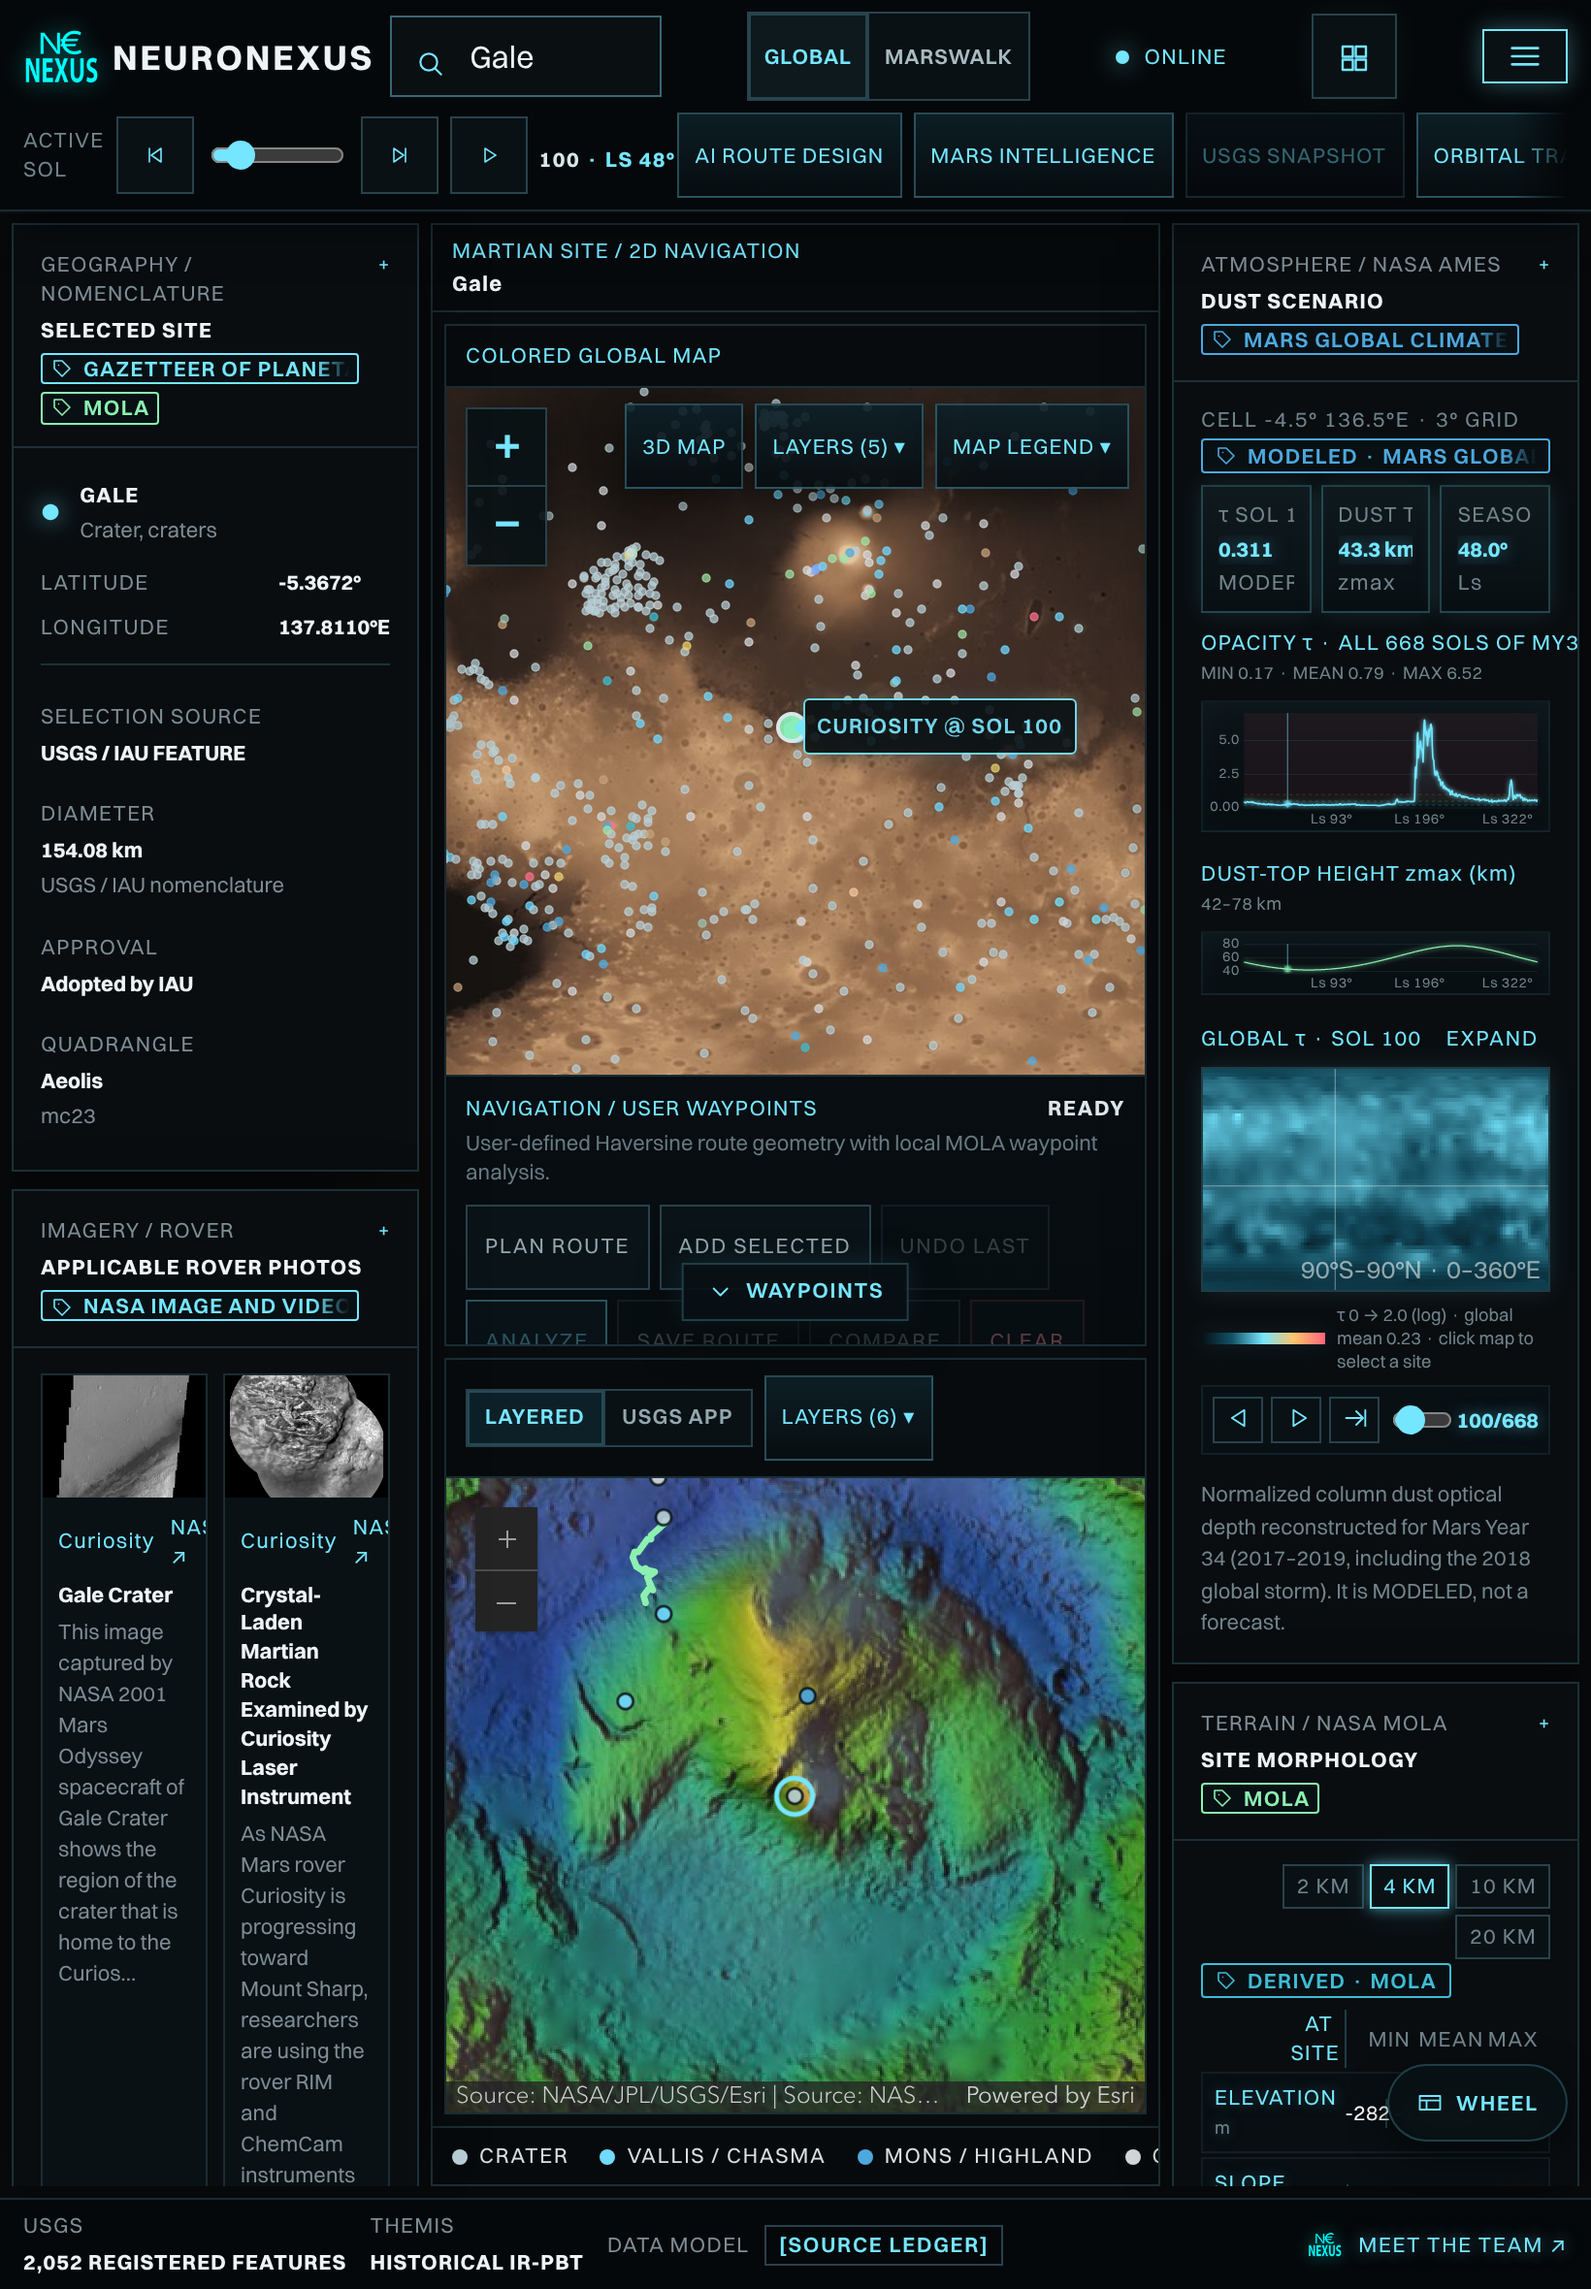
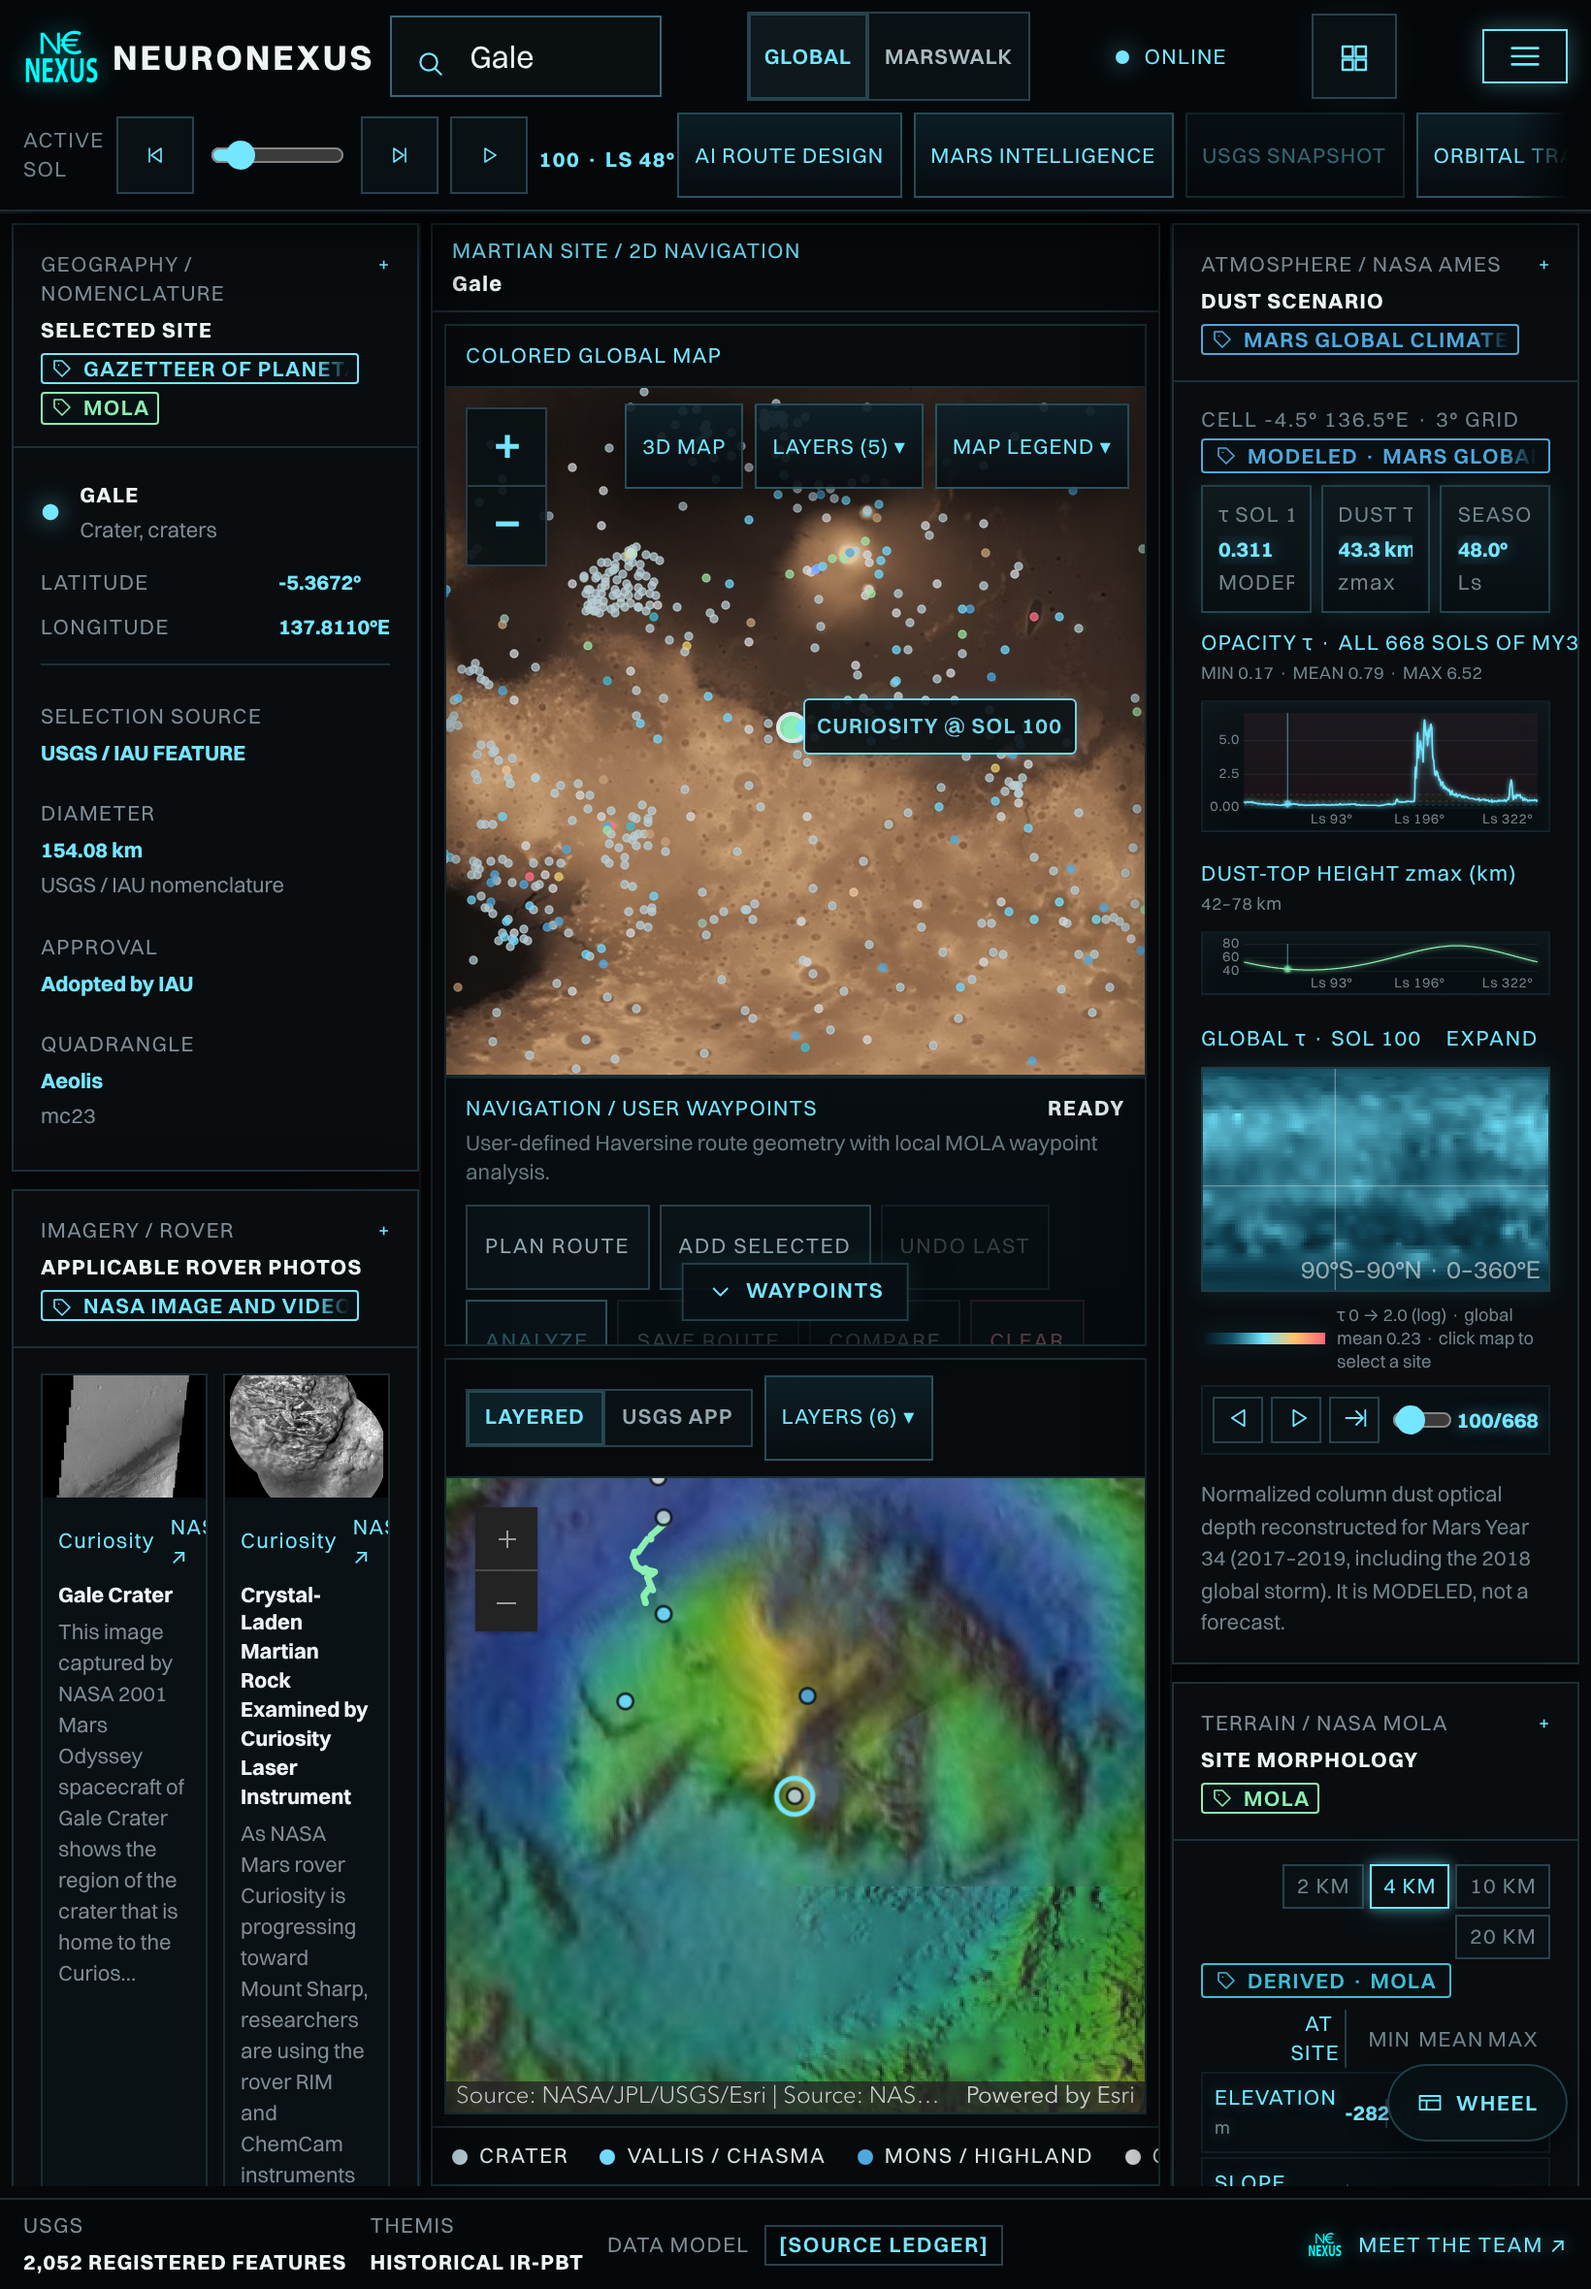
Honest worker/memory telemetry, remove Install app, cyan key figures, panel depth
- Browser Optimization: DEVICE MEMORY row only when navigator.deviceMemory is
  exposed (labelled as the browser's rounded value); WORKER shows READY with the
  last job time when worker math is on, STANDBY (main thread) when off
- Install as app removed from the menu, wheel and Command Index, with its
  manifest, service worker and offline page; browsers that registered the old
  worker unregister it on load
- Key figures in electric cyan, bold Switzer: Metric values (selected site,
  THEMIS evidence, solar geometry), sol conditions, thermal bars, morphology
  stats, mission KPIs, MARSWALK decision/conditions/validation rows and stops,
  route counters, the top-bar sol; n/a stays dim, status colors unchanged
- Desktop/tablet ambient shadows on the four cockpit boundaries (top bar keeps
  z-index 3000 so the search list stays above the maps)

Claude-Session: https://claude.ai/code/session_01WGYgWxKKb8sWn1uuapz3HA

diff --git a/frontend/src/components/MissionManualDrawer.jsx b/frontend/src/components/MissionManualDrawer.jsx
@@ -2,7 +2,6 @@
 
 import { useEffect, useState } from "react";
 
-import { installStore, useInstall } from "../pwa/installStore";
 import { useSourceLedger } from "../sources/useSourceLedger";
 import SourceTag from "../sources/SourceTag";
 import { GUIDES, QUICK_STARTS } from "./manualContent";
@@ -11,8 +10,6 @@ import "../sources/sources.css";
 export default function MissionManualDrawer({ open, onClose, onQuickStart, onOpenSources, onOpenCommands, optimizationPanel }) {
   const ledger = useSourceLedger();
   const [status, setStatus] = useState({ state: "idle" });
-  const install = useInstall();
-  const [installMsg, setInstallMsg] = useState("");
 
   useEffect(() => {
     if (!open) return undefined;
@@ -51,23 +48,6 @@ export default function MissionManualDrawer({ open, onClose, onQuickStart, onOpe
         <section className="nn-manual-section">
           <h3>QUICK START</h3>
           <div className="nn-manual-quick">
-            <button
-              type="button"
-              className="nn-manual-install"
-              data-quickstart="install-app"
-              disabled={install.installed}
-              onClick={async () => setInstallMsg(await installStore.install())}
-            >
-              <strong>{install.installed ? "Installed as an app" : "Install as app"}</strong>
-              <small>
-                {install.installed
-                  ? "Running in its own window on this device."
-                  : install.ios
-                    ? "iPhone and iPad: Share, then Add to Home Screen. Data still comes live from the server."
-                    : "Own window and home-screen icon on desktop, phone or tablet. Data still comes live from the server."}
-              </small>
-              {installMsg && <small className="nn-manual-install-msg" role="status">{installMsg}</small>}
-            </button>
             {QUICK_STARTS.map((q) => (
               <button key={q.id} type="button" onClick={() => onQuickStart(q.demo)} data-quickstart={q.id}>
                 <strong>{q.label}</strong>

diff --git a/frontend/src/components/BrowserOptimizationPanel.jsx b/frontend/src/components/BrowserOptimizationPanel.jsx
@@ -81,12 +81,18 @@ export default function BrowserOptimizationPanel() {
           {t.heap.limitMb ? ` of ${mb(t.heap.limitMb)}` : ""}
           {t.heap.estimated ? " (estimate: performance.memory is Chromium-only)" : ""}
         </dd>
-        <dt>Device memory</dt>
-        <dd>{memory != null ? `${memory} GB (navigator.deviceMemory)` : "not exposed by this browser"}</dd>
+        {/* Only when the browser exposes it (Chromium rounds it to a privacy bucket, at most 8 GB); never a default. */}
+        {memory != null && (
+          <>
+            <dt>Device memory</dt>
+            <dd>{`about ${memory} GB (navigator.deviceMemory, rounded by the browser)`}</dd>
+          </>
+        )}
         <dt>Worker</dt>
-        <dd>
-          {t.worker.status}
-          {t.worker.latencyMs != null ? ` · last job ${t.worker.latencyMs.toFixed(1)} ms` : ""}
+        <dd data-testid="perf-worker">
+          {toggles.workerMath
+            ? `READY · offload active${t.worker.latencyMs != null ? ` · last job ${t.worker.latencyMs.toFixed(1)} ms` : " · no job yet"}`
+            : "STANDBY · main thread"}
         </dd>
         <dt>IndexedDB tile cache</dt>
         <dd>{t.cache ? `${mb(t.cache.bytes / 2 ** 20)} in ${t.cache.entries} entries (cap ${mb(t.cache.capBytes / 2 ** 20)})${t.cache.unavailable ? " · unavailable" : ""}` : "…"}</dd>

diff --git a/frontend/src/ui/ui.css b/frontend/src/ui/ui.css
@@ -1718,7 +1718,28 @@ label:has(> .m3d-layer-tag) { flex-wrap: wrap; }
 .nn-arcgis-status.is-error { color: var(--nn-amber); border-color: rgba(255, 196, 107, 0.4); }
 
 
-.nn-manual-install-msg { color: var(--nn-cyan); }
 
 /* Popover cards rendered on <body> (FloatingCard): above panels, sheets and drawers. */
 .nn-floating { z-index: 6000 !important; box-sizing: border-box; }
+
+/* ------------------------------------------------------------------ Key figures: electric cyan, bold
+ * Every primary number in the HUD reads in --nn-cyan. Status colors (amber review flags, coral exceeds,
+ * green nominal) keep their meaning and are not overridden; missing values ("n/a") stay dim.
+ */
+#root .metric strong,
+#root .coordinate-block strong,
+#root .nn-solcond-grid dd,
+#root .nn-thermal-bar > span,
+#root .nn-stat-row .nn-stat-val:not([class*="nn-flag-"]),
+#root .morph-aspect strong,
+#root .mission-stat strong,
+#root .mission-row strong.project,
+#root .mw-row > strong,
+#root .mw-stops strong,
+#root .mw-stops b,
+#root .topbar .nn-solscrub-value {
+  color: var(--nn-cyan);
+  font-family: var(--nn-font);
+  font-weight: 700;
+}
+#root .metric strong.is-na, #root .nn-stat-row .is-na { color: var(--nn-text-dim); font-weight: 400; }

diff --git a/frontend/src/ui/responsive.css b/frontend/src/ui/responsive.css
@@ -434,3 +434,14 @@
 @media (min-width: 768px) {
   .mw-shell button { white-space: nowrap; letter-spacing: 0.04em; overflow-x: auto; scrollbar-width: none; }
 }
+
+/* ------------------------------------------------------------------ Panel separation depth (laptops, desktops, tablets)
+ * Ambient shadows on the four cockpit boundaries only: under the top bar, beside the left and right
+ * columns, and above the center map and its route / profile strip. Phones (< 768 px) are untouched.
+ */
+@media (min-width: 768px) {
+  .topbar { position: relative; z-index: 3000; /* not 30: the search suggestions must stay above the map panes (z 400+) */ box-shadow: 0 8px 24px rgba(0, 0, 0, 0.72), 0 1px 0 rgba(117, 230, 255, 0.14); }
+  .left-column, .mw-left { position: relative; z-index: 20; box-shadow: 10px 0 28px -4px rgba(0, 0, 0, 0.68), 1px 0 0 rgba(117, 230, 255, 0.12); }
+  .right-column, .mw-right { position: relative; z-index: 20; box-shadow: -10px 0 28px -4px rgba(0, 0, 0, 0.68), -1px 0 0 rgba(117, 230, 255, 0.12); }
+  .site-field, .mw-center, .route-console, .mw-bottom { box-shadow: 0 -8px 24px -4px rgba(0, 0, 0, 0.65), inset 0 1px 0 rgba(117, 230, 255, 0.12); }
+}

diff --git a/frontend/src/features/consoleHandlers.js b/frontend/src/features/consoleHandlers.js
@@ -5,7 +5,6 @@
 
 import { exportEvaBrief, exportGeoJson, exportProfileCsv, exportValidation } from "../exports/actions";
 import { planStore } from "../marswalk/planStore";
-import { installStore } from "../pwa/installStore";
 import { perfStore } from "../perf/perfStore";
 import { solSnapshot } from "../state/solStore";
 
@@ -74,7 +73,6 @@ export function buildConsoleHandlers(ctx) {
       run: () => toMarswalk({ type: "sensitivity", scroll: "mw-sensitivity" }),
       available: () => (planStore.get().plan ? true : "Plan a Marswalk first"),
     },
-    "install-app": { run: run(() => installStore.install()) },
     "verify-plan": { run: () => toMarswalk({ type: "verify" }), available: () => (planStore.get().plan ? true : "Plan a Marswalk first") },
     "export-eva-brief": { run: run(exportEvaBrief), available: () => (planStore.get().plan ? true : "Plan a Marswalk first") },
     "export-geojson": { run: run(exportGeoJson), available: () => (planStore.get().plan ? true : "Plan a Marswalk first") },

diff --git a/frontend/src/ui/StatTriplet.jsx b/frontend/src/ui/StatTriplet.jsx
@@ -30,7 +30,7 @@ export function StatTable({ columns = ["AT SITE", "MIN", "MEAN", "MAX"], rows, b
               <span
                 key={columns[index]}
                 role="cell"
-                className={[columns[index] === "AT SITE" ? "nn-at-site" : "", row.flags?.[index] ? `nn-flag-${row.flags[index]}` : ""].join(" ")}
+                className={["nn-stat-val", columns[index] === "AT SITE" ? "nn-at-site" : "", row.flags?.[index] ? `nn-flag-${row.flags[index]}` : "", text === null ? "is-na" : ""].filter(Boolean).join(" ")}
                 title={text === null ? missingReason : undefined}
               >
                 {text ?? "n/a"}

diff --git a/frontend/src/pwa/retireAppWorker.js b/frontend/src/pwa/retireAppWorker.js
@@ -1,0 +1,10 @@
+/*
+ * Install as app was removed. Browsers that registered its service worker (/app-sw.js) unregister it here,
+ * so no stale worker or install prompt remains. The static demo's own worker (/demo-sw.js) is left alone.
+ */
+if (typeof navigator !== "undefined" && navigator.serviceWorker?.getRegistrations) {
+  navigator.serviceWorker
+    .getRegistrations()
+    .then((regs) => regs.filter((r) => /\/app-sw\.js$/.test(r.active?.scriptURL ?? r.installing?.scriptURL ?? "")).forEach((r) => r.unregister()))
+    .catch(() => {});
+}

diff --git a/frontend/src/components/console/RouteConsole.jsx b/frontend/src/components/console/RouteConsole.jsx
@@ -186,7 +186,7 @@ export default function RouteConsole({
           SAVED ROUTES{" "}
           <strong
             style={{
-              color: "#9bb1b8",
+              color: "var(--nn-cyan)",
             }}
           >
             {savedRoutes.length}
@@ -197,7 +197,7 @@ export default function RouteConsole({
           CUSTOM PLACES{" "}
           <strong
             style={{
-              color: "#9bb1b8",
+              color: "var(--nn-cyan)",
             }}
           >
             {customPlacesCount}

diff --git a/frontend/index.html b/frontend/index.html
@@ -4,7 +4,6 @@
     <meta charset="UTF-8" />
     <link rel="icon" type="image/png" sizes="192x192" href="/pwa/icon-192.png" />
     <link rel="apple-touch-icon" href="/pwa/apple-touch-icon.png" />
-    <link rel="manifest" href="/manifest.webmanifest" />
     <meta name="viewport" content="width=device-width, initial-scale=1.0, maximum-scale=5.0, viewport-fit=cover" />
     <meta name="theme-color" content="#081014" />
     <meta name="apple-mobile-web-app-capable" content="yes" />

diff --git a/frontend/src/components/console/Panel.jsx b/frontend/src/components/console/Panel.jsx
@@ -26,7 +26,7 @@ export function Metric({ label, value, detail }) {
     <div className="metric">
       <span>{label}</span>
 
-      <strong>{value ?? "n/a"}</strong>
+      <strong className={value == null || /^(n\/a|unavailable|none)$/i.test(String(value)) ? "is-na" : undefined}>{value ?? "n/a"}</strong>
 
       {detail && <small>{detail}</small>}
     </div>

diff --git a/frontend/src/main.jsx b/frontend/src/main.jsx
@@ -2,7 +2,7 @@ import { StrictMode } from 'react'
 import { createRoot } from 'react-dom/client'
 import './index.css'
 import './utils/leafletGuards.js'
-import './pwa/installStore.js'
+import './pwa/retireAppWorker.js'
 import App from './App.jsx'
 import ErrorBoundary from './ui/ErrorBoundary.jsx'
 import DemoBanner from './demo/DemoBanner.jsx'

diff --git a/frontend/src/components/wheel/wheelModel.js b/frontend/src/components/wheel/wheelModel.js
@@ -54,7 +54,6 @@ export const WHEEL = [
     { id: "mission-manual", label: "OPERATIONS MANUAL" },
     { id: "command-index", label: "COMMAND INDEX" },
     { id: "backend-status", label: "DATA STATUS" },
-    { id: "install-app", label: "INSTALL APP" },
   ] },
 ];
 
